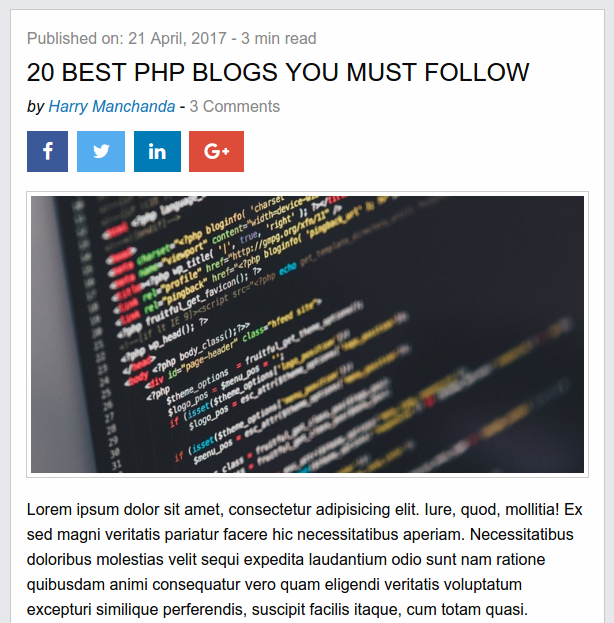
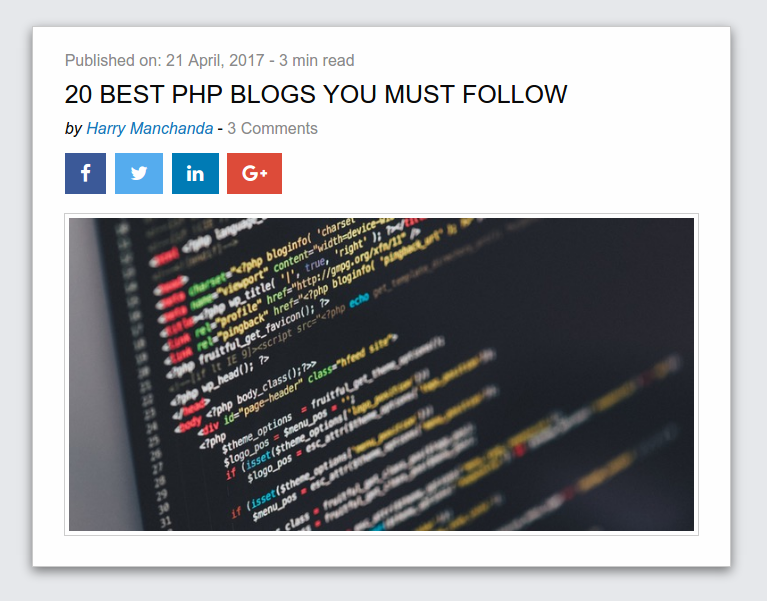
Updated image path, padding, etc

diff --git a/src/building-blocks/simple-article-header/simple-article-header.html b/src/building-blocks/simple-article-header/simple-article-header.html
@@ -34,7 +34,7 @@
   <!-- Article Image -->
   <div class="article-post-image">
     <div class="thumbnail">
-      <img src="https://i.imgur.com/22ue2CP.jpg">
+      <img src="//i.imgur.com/22ue2CP.jpg">
     </div>
   </div>
 

diff --git a/src/building-blocks/simple-article-header/simple-article-header.scss b/src/building-blocks/simple-article-header/simple-article-header.scss
@@ -8,7 +8,7 @@ $social-brand-google-plus: #dd4b39;
 
 .simple-article-header {
   background: $white;
-  padding: 1rem 1rem 0.5rem;
+  padding: 1.3rem 2rem .7rem;
   border: 1px solid $medium-gray;
   margin-bottom: 1rem;
 

diff --git a/src/building-blocks/simple-article-header/layout.html b/src/building-blocks/simple-article-header/layout.html
@@ -1,3 +1,3 @@
-<div class="row large-6 column align-center">
+<div class="row large-7 column align-center">
   {{> simple-article-header}}
 </div>
